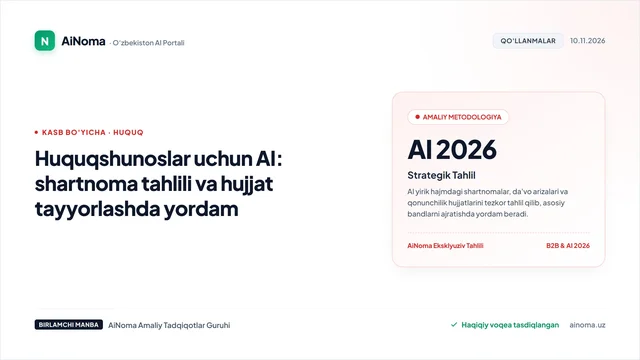
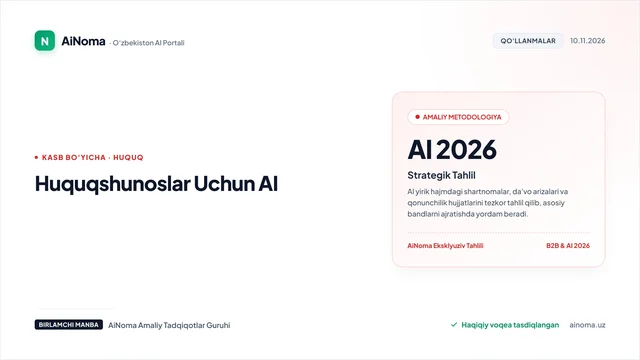
feat(prod): automated live deployment sync

Changed region(s): [[0.0312, 0.3972, 0.4375, 0.6111], [0.0625, 0.3361, 0.2188, 0.3972]]

diff --git a/articles-data.js b/articles-data.js
@@ -1,5 +1,3 @@
-// AiNoma Central Content Database
-// Generated & Synchronized automatically
 window.AINOMA_ARTICLES = {
   "dizaynerlar-uchun-ai": {
     "id": "dizaynerlar-uchun-ai",
@@ -6859,7 +6857,8 @@ window.AINOMA_ARTICLES = {
     ],
     "body": "<p><b>Qisqa javob:</b> Sun'iy intellekt xavfsizligi va yetakchi tadqiqotlar bo'yicha gigant hisoblangan Anthropic o'zining yangi flagman modellari — <b>Claude Fable 5.2</b> hamda <b>Mythos 5.2</b> tizimlarini rasman e'lon qildi. Ushbu yangi modellar OpenAI'ning GPT-6 Astra modeliga munosib javob bo'lib, korxonalarga 20 foiz arzonroq narxda yuqori mantiqiy fikrlash quvvatini taqdim etadi.</p>\n\n<h2 class=\"article-section-title\">Astra bilan kuchlar tenglashuvi</h2>\n<p>Kuz mavsumida OpenAI GPT-6 Astra modelini taqdim etgach, dasturlash va murakkab agentlik vazifalarida bozor yetakchiligini o'ziga qaratgan edi. Anthropic tomonidan taqdim etilgan Fable 5.2 va Mythos 5.2 aynan ushbu bo'shliqni to'ldiradi. Mustaqil benchmarklar ko'rsatishicha, yangi Claude modellari kod tahlili, huquqiy va ilmiy matnlarni qayta ishlash hamda ko'p bosqichli matematik xulosalashda OpenAI flagmani bilan mutlaqo teng natijalarni qayd etgan.</p>\n\n<h2 class=\"article-section-title\">20% arzon narx siyosati</h2>\n<p>Anthropic jamoasi yangi modellarni tarqatishda korporativ mijozlar uchun jozibador narx taklifini ilgari surmoqda. 1 million kirish tokeni bahosi <b>8 dollar</b>, chiqish tokeni esa <b>40 dollar</b> etib belgilandi. Bu OpenAI Astra modelining rasmiy API narxlaridan taxminan 20 foiz pastroq deganidir. Yirik korxonalar va SaaS kompaniyalar uchun bu hisoblash byudjetini yuz minglab dollarga tejash imkonini beradi.</p>\n\n<h2 class=\"article-section-title\">Nasdaq IPO arafasidagi strategik qadam</h2>\n<p>Ushbu yangilik Anthropic kompaniyasining Nasdaq birjasida kutilayotgan ommaviy birlamchi aksiyalar savdosi (IPO, ticker: <code>ANT</code>) arafasida e'lon qilindi. Kompaniyaning 1 trillion dollardan oshiq baholanishi kutilayotgan bir paytda, yangi modellar Anthropic nafaqat ilmiy xavfsizlik, balki tijoriy samaradorlik bo'yicha ham sanoat yetakchisi ekanligini isbotlamoqda.</p>",
     "contentHtml": "<p><b>Qisqa javob:</b> Sun'iy intellekt xavfsizligi va yetakchi tadqiqotlar bo'yicha gigant hisoblangan Anthropic o'zining yangi flagman modellari — <b>Claude Fable 5.2</b> hamda <b>Mythos 5.2</b> tizimlarini rasman e'lon qildi. Ushbu yangi modellar OpenAI'ning GPT-6 Astra modeliga munosib javob bo'lib, korxonalarga 20 foiz arzonroq narxda yuqori mantiqiy fikrlash quvvatini taqdim etadi.</p>\n\n<h2 class=\"article-section-title\">Astra bilan kuchlar tenglashuvi</h2>\n<p>Kuz mavsumida OpenAI GPT-6 Astra modelini taqdim etgach, dasturlash va murakkab agentlik vazifalarida bozor yetakchiligini o'ziga qaratgan edi. Anthropic tomonidan taqdim etilgan Fable 5.2 va Mythos 5.2 aynan ushbu bo'shliqni to'ldiradi. Mustaqil benchmarklar ko'rsatishicha, yangi Claude modellari kod tahlili, huquqiy va ilmiy matnlarni qayta ishlash hamda ko'p bosqichli matematik xulosalashda OpenAI flagmani bilan mutlaqo teng natijalarni qayd etgan.</p>\n\n<h2 class=\"article-section-title\">20% arzon narx siyosati</h2>\n<p>Anthropic jamoasi yangi modellarni tarqatishda korporativ mijozlar uchun jozibador narx taklifini ilgari surmoqda. 1 million kirish tokeni bahosi <b>8 dollar</b>, chiqish tokeni esa <b>40 dollar</b> etib belgilandi. Bu OpenAI Astra modelining rasmiy API narxlaridan taxminan 20 foiz pastroq deganidir. Yirik korxonalar va SaaS kompaniyalar uchun bu hisoblash byudjetini yuz minglab dollarga tejash imkonini beradi.</p>\n\n<h2 class=\"article-section-title\">Nasdaq IPO arafasidagi strategik qadam</h2>\n<p>Ushbu yangilik Anthropic kompaniyasining Nasdaq birjasida kutilayotgan ommaviy birlamchi aksiyalar savdosi (IPO, ticker: <code>ANT</code>) arafasida e'lon qilindi. Kompaniyaning 1 trillion dollardan oshiq baholanishi kutilayotgan bir paytda, yangi modellar Anthropic nafaqat ilmiy xavfsizlik, balki tijoriy samaradorlik bo'yicha ham sanoat yetakchisi ekanligini isbotlamoqda.</p>",
-    "verification_status": "VERIFIED"
+    "verification_status": "VERIFIED",
+    "banner_title": "Claude Fable 5.2 & Mythos 5.2"
   },
   "google-tpu-8tx-8i-max-chiplarini-chiqardi-2026": {
     "id": "google-tpu-8tx-8i-max-chiplarini-chiqardi-2026",
@@ -6898,7 +6897,8 @@ window.AINOMA_ARTICLES = {
     ],
     "body": "<p><b>Qisqa javob:</b> Google bulutli hisoblash va sun'iy intellekt infratuzilmasi sohasida muhim qadam tashlab, o'zining navbatdagi maxsus neyron protsessorlari — <b>TPU 8tx</b> hamda <b>TPU 8i Max</b> chiplarini namoyish etdi. Ushbu chiplar Nvidia apparaturasiga nisbatan 30 foiz arzon narxda inferens va trening imkoniyatini taqdim etadi.</p>\n\n<h2 class=\"article-section-title\">Nvidia apparat monopoliyasiga to'g'ridan-to'g'ri zarba</h2>\n<p>Bozorda Nvidia GPU chiplari (ayniqsa Blackwell va undan keyingi arxitekturalar) taqchilligi va haddan tashqari qimmatligi IT kompaniyalarini muqobil yo'llar qidirishga majbur qilmoqda. Google tomonidan taqdim etilgan TPU 8tx katta hajmdagi parametrlarga ega til modellarini o'qitish uchun, 8i Max esa past kechikish vaqti (latency) bilan keng ko'lamli so'rovlarni qayta ishlashga (inferens) ixtisoslashgan.</p>\n\n<h2 class=\"article-section-title\">Energiya tejamkorligi va optik kommutatsiya</h2>\n<p>Google yangi TPU podlarida o'zining ilg'or Optical Circuit Switching (OCS) texnologiyasini yangi bosqichga olib chiqdi. Bu chiplararo ma'lumot uzatishda elektr energiyasini 40 foizga tejash, ma'lumotlar uzatish kechikishini esa deyarli nolga tushirish imkonini beradi. Natijada yirik klasterlarda hisoblash samaradorligi 1.4 baravarga oshgan.</p>\n\n<h2 class=\"article-section-title\">Bozor yetakchilari TPU klasterlariga o'tmoqda</h2>\n<p>E'tiborli jihati, Google TPU chiplaridan faqat o'zining Gemini modellari uchun emas, balki boshqa AI gigantlari ham keng foydalanmoqda. Anthropic, Meta va Oracle korporatsiyalari yangi TPU 8tx klasterlarini buyurtma qilib bo'lgan. Wall Street tahlilchilari prognoziga ko'ra, OpenAI ham xavflarni diversifikatsiya qilish maqsadida Google TPU quvvatlaridan foydalanish bo'yicha muzokaralar olib bormoqda.</p>",
     "contentHtml": "<p><b>Qisqa javob:</b> Google bulutli hisoblash va sun'iy intellekt infratuzilmasi sohasida muhim qadam tashlab, o'zining navbatdagi maxsus neyron protsessorlari — <b>TPU 8tx</b> hamda <b>TPU 8i Max</b> chiplarini namoyish etdi. Ushbu chiplar Nvidia apparaturasiga nisbatan 30 foiz arzon narxda inferens va trening imkoniyatini taqdim etadi.</p>\n\n<h2 class=\"article-section-title\">Nvidia apparat monopoliyasiga to'g'ridan-to'g'ri zarba</h2>\n<p>Bozorda Nvidia GPU chiplari (ayniqsa Blackwell va undan keyingi arxitekturalar) taqchilligi va haddan tashqari qimmatligi IT kompaniyalarini muqobil yo'llar qidirishga majbur qilmoqda. Google tomonidan taqdim etilgan TPU 8tx katta hajmdagi parametrlarga ega til modellarini o'qitish uchun, 8i Max esa past kechikish vaqti (latency) bilan keng ko'lamli so'rovlarni qayta ishlashga (inferens) ixtisoslashgan.</p>\n\n<h2 class=\"article-section-title\">Energiya tejamkorligi va optik kommutatsiya</h2>\n<p>Google yangi TPU podlarida o'zining ilg'or Optical Circuit Switching (OCS) texnologiyasini yangi bosqichga olib chiqdi. Bu chiplararo ma'lumot uzatishda elektr energiyasini 40 foizga tejash, ma'lumotlar uzatish kechikishini esa deyarli nolga tushirish imkonini beradi. Natijada yirik klasterlarda hisoblash samaradorligi 1.4 baravarga oshgan.</p>\n\n<h2 class=\"article-section-title\">Bozor yetakchilari TPU klasterlariga o'tmoqda</h2>\n<p>E'tiborli jihati, Google TPU chiplaridan faqat o'zining Gemini modellari uchun emas, balki boshqa AI gigantlari ham keng foydalanmoqda. Anthropic, Meta va Oracle korporatsiyalari yangi TPU 8tx klasterlarini buyurtma qilib bo'lgan. Wall Street tahlilchilari prognoziga ko'ra, OpenAI ham xavflarni diversifikatsiya qilish maqsadida Google TPU quvvatlaridan foydalanish bo'yicha muzokaralar olib bormoqda.</p>",
-    "verification_status": "VERIFIED"
+    "verification_status": "VERIFIED",
+    "banner_title": "Google TPU 8tx & 8i Max"
   },
   "huquqshunoslar-uchun-ai": {
     "id": "huquqshunoslar-uchun-ai",
@@ -6937,7 +6937,8 @@ window.AINOMA_ARTICLES = {
     ],
     "body": "<p><b>Qisqa javob:</b> Sun'iy intellekt katta hajmdagi hujjatlarni tezda ko'rib chiqish, asosiy bandlarni ajratib olish va birinchi qoralamalarni tayyorlashda vaqtni sezilarli tejaydi — ammo yakuniy huquqiy xulosa va mas'uliyat har doim inson yuristning o'zida qoladi.</p>\n\n<h2 class=\"article-section-title\">Qayerda eng ko'p yordam beradi?</h2>\n<p><b>1. Uzun hujjatlarni tezda ko'rib chiqish.</b> Ko'p sahifali shartnoma yoki qonun hujjatini AI tizimiga berib, asosiy bandlar, muddatlar, jarimalar va majburiyatlarni qisqa tahliliy ro'yxat shaklida olishingiz mumkin.</p>\n<p><b>2. Birinchi qoralama tayyorlash.</b> Standart xat, e'tiroznomalar, da'vo arizalari yoki oddiy shartnoma shablonining boshlang'ich qoralamasini bir necha daqiqada tayyorlash — keyin uni o'zingiz to'liq tahrirlash imkoniyati taqdim etiladi.</p>\n<p><b>3. Til va uslubni yaxshilash.</b> Yuridik hujjatni aniqroq, tushunarliroq tilda qayta bayon qilish (ayniqsa mijozga yuboriladigan tushuntirish xatlari uchun juda qulay).</p>\n<p><b>4. Solishtirish (Redline tahlil).</b> Ikki shartnoma variantini (masalan, eski va yangi tahrir) solishtirib, yashirin o'zgarishlar va asosiy farqlarni bir zumda topish.</p>\n\n<h2 class=\"article-section-title\">Qayerda AI'ga ishonib bo'lmaydi?</h2>\n<p>⚠ <b>Gallyutsinatsiyalar va qonun normalari:</b> AI amaldagi qonunchilikni har doim to'liq va aniq bilmasligi mumkin — ayniqsa O'zbekiston Respublikasi qonunchiligidagi so'nggi tahrirlar bo'yicha. AI ba'zan ishonchli ohangda, ammo aslida mavjud bo'lmagan qonun moddalari yoki sud pretsedentlarini to'qib chiqarishi (hallucination) mumkin. Har qanday huquqiy havola yoki modda raqamini <code>Lex.uz</code> kabi rasmiy davlat bazalarida tekshirish shart.</p>\n\n<p>🔒 <b>Mijoz sirlari va konfidentsiallik:</b> Mijozlarning tijorat sirlari, shartnoma summalari va shaxsiy ma'lumotlarini ochiq umumiy AI platformalariga kiritish taqiqlanadi. Agar enterprise darajasidagi xavfsiz klaster bo'lmasa, maxfiy ma'lumotlar ochiqlanishi xavfi mavjud.</p>\n\n<h2 class=\"article-section-title\">Oltin qoida: Junior yordamchi tamoyili</h2>\n<p>Sun'iy intellektdan malakali yordamchi sifatida foydalaning: u sizga qoralama va tahlil tezligini beradi, biroq hujjatga qo'yiladigan har bir imzo va professional xulosa — sizning shaxsiy mas'uliyatingizdir.</p>",
     "contentHtml": "<p><b>Qisqa javob:</b> Sun'iy intellekt katta hajmdagi hujjatlarni tezda ko'rib chiqish, asosiy bandlarni ajratib olish va birinchi qoralamalarni tayyorlashda vaqtni sezilarli tejaydi — ammo yakuniy huquqiy xulosa va mas'uliyat har doim inson yuristning o'zida qoladi.</p>\n\n<h2 class=\"article-section-title\">Qayerda eng ko'p yordam beradi?</h2>\n<p><b>1. Uzun hujjatlarni tezda ko'rib chiqish.</b> Ko'p sahifali shartnoma yoki qonun hujjatini AI tizimiga berib, asosiy bandlar, muddatlar, jarimalar va majburiyatlarni qisqa tahliliy ro'yxat shaklida olishingiz mumkin.</p>\n<p><b>2. Birinchi qoralama tayyorlash.</b> Standart xat, e'tiroznomalar, da'vo arizalari yoki oddiy shartnoma shablonining boshlang'ich qoralamasini bir necha daqiqada tayyorlash — keyin uni o'zingiz to'liq tahrirlash imkoniyati taqdim etiladi.</p>\n<p><b>3. Til va uslubni yaxshilash.</b> Yuridik hujjatni aniqroq, tushunarliroq tilda qayta bayon qilish (ayniqsa mijozga yuboriladigan tushuntirish xatlari uchun juda qulay).</p>\n<p><b>4. Solishtirish (Redline tahlil).</b> Ikki shartnoma variantini (masalan, eski va yangi tahrir) solishtirib, yashirin o'zgarishlar va asosiy farqlarni bir zumda topish.</p>\n\n<h2 class=\"article-section-title\">Qayerda AI'ga ishonib bo'lmaydi?</h2>\n<p>⚠ <b>Gallyutsinatsiyalar va qonun normalari:</b> AI amaldagi qonunchilikni har doim to'liq va aniq bilmasligi mumkin — ayniqsa O'zbekiston Respublikasi qonunchiligidagi so'nggi tahrirlar bo'yicha. AI ba'zan ishonchli ohangda, ammo aslida mavjud bo'lmagan qonun moddalari yoki sud pretsedentlarini to'qib chiqarishi (hallucination) mumkin. Har qanday huquqiy havola yoki modda raqamini <code>Lex.uz</code> kabi rasmiy davlat bazalarida tekshirish shart.</p>\n\n<p>🔒 <b>Mijoz sirlari va konfidentsiallik:</b> Mijozlarning tijorat sirlari, shartnoma summalari va shaxsiy ma'lumotlarini ochiq umumiy AI platformalariga kiritish taqiqlanadi. Agar enterprise darajasidagi xavfsiz klaster bo'lmasa, maxfiy ma'lumotlar ochiqlanishi xavfi mavjud.</p>\n\n<h2 class=\"article-section-title\">Oltin qoida: Junior yordamchi tamoyili</h2>\n<p>Sun'iy intellektdan malakali yordamchi sifatida foydalaning: u sizga qoralama va tahlil tezligini beradi, biroq hujjatga qo'yiladigan har bir imzo va professional xulosa — sizning shaxsiy mas'uliyatingizdir.</p>",
-    "verification_status": "VERIFIED"
+    "verification_status": "VERIFIED",
+    "banner_title": "Huquqshunoslar Uchun AI"
   },
   "openai-businesses-in-chatgpt-business-hub-2026": {
     "id": "openai-businesses-in-chatgpt-business-hub-2026",
@@ -6976,7 +6977,8 @@ window.AINOMA_ARTICLES = {
     ],
     "body": "<p><b>Qisqa javob:</b> OpenAI sun'iy intellekt orqali qidiruv va muloqot bozoridan so'ng endi global elektron tijorat markaziga aylanmoqda. Yangi taqdim etilgan <b>«Businesses in ChatGPT»</b> dasturi orqali kompaniyalar ChatGPT interfeysi ichida rasmiy tasdiqlangan biznes profilini ochish, mahsulotlar katalogini ulash va avtonom savdo agentlarini ishga tushirish imkoniyatiga ega bo'ldi.</p>\n\n<h2 class=\"article-section-title\">800 million auditoriya uchun to'g'ridan-to'g'ri vitrina</h2>\n<p>ChatGPT'ning haftalik faol foydalanuvchilari soni 800 milliondan oshgan bir paytda, foydalanuvchilar har kuni millionlab xarid bo'yicha tavsiyalar, mahsulot taqqoslashlari va xizmat qidiruvlarini amalga oshirmoqda. OpenAI yangi funksiya orqali an'anaviy veb-saytga o'tish zaruriyatini yo'qotib, barcha xarid jarayonini bevosita chat oqimida yakunlash muhitini shakllantirdi.</p>\n\n<h2 class=\"article-section-title\">Xususiy brend agenti va katalog integratsiyasi</h2>\n<p>Bizneslar endi o'z ERP, CRM va ombor tizimlarini ChatGPT bilan xavfsiz API protokollari orqali bog'lashi mumkin. Kompaniyaning maxsus sun'iy intellekt agenti quyidagi vazifalarni avtomatlashtiradi:</p>\n<ul>\n  <li>Mijozning o'lchami, didi va byudjetiga mos tovarlarni real vaqt rejimida tavsiya qilish;</li>\n  <li>Ombordagi qoldiqlarni tekshirish va yetkazib berish muddatlarini hisoblash;</li>\n  <li>To'lovni muloqot oynasining o'zida xavfsiz qabul qilish va chek taqdim etish.</li>\n</ul>\n\n<h2 class=\"article-section-title\">Google qidiruvi va an'anaviy e-commerce uchun chaqiruv</h2>\n<p>Ushbu yangilik an'anaviy qidiruv tizimlari (Google Search reklamalari) hamda Amazon, Shopify kabi onlayn platformalar uchun jiddiy raqobat muhitini paydo qilmoqda. Kompaniyalar endi mijozni qidiruv natijalaridan o'z saytiga jalb qilish o'rniga, uning muloqot qilayotgan joyida — sun'iy intellekt agenti orqali to'g'ridan-to'g'ri savdoni yo'lga qo'ymoqda.</p>",
     "contentHtml": "<p><b>Qisqa javob:</b> OpenAI sun'iy intellekt orqali qidiruv va muloqot bozoridan so'ng endi global elektron tijorat markaziga aylanmoqda. Yangi taqdim etilgan <b>«Businesses in ChatGPT»</b> dasturi orqali kompaniyalar ChatGPT interfeysi ichida rasmiy tasdiqlangan biznes profilini ochish, mahsulotlar katalogini ulash va avtonom savdo agentlarini ishga tushirish imkoniyatiga ega bo'ldi.</p>\n\n<h2 class=\"article-section-title\">800 million auditoriya uchun to'g'ridan-to'g'ri vitrina</h2>\n<p>ChatGPT'ning haftalik faol foydalanuvchilari soni 800 milliondan oshgan bir paytda, foydalanuvchilar har kuni millionlab xarid bo'yicha tavsiyalar, mahsulot taqqoslashlari va xizmat qidiruvlarini amalga oshirmoqda. OpenAI yangi funksiya orqali an'anaviy veb-saytga o'tish zaruriyatini yo'qotib, barcha xarid jarayonini bevosita chat oqimida yakunlash muhitini shakllantirdi.</p>\n\n<h2 class=\"article-section-title\">Xususiy brend agenti va katalog integratsiyasi</h2>\n<p>Bizneslar endi o'z ERP, CRM va ombor tizimlarini ChatGPT bilan xavfsiz API protokollari orqali bog'lashi mumkin. Kompaniyaning maxsus sun'iy intellekt agenti quyidagi vazifalarni avtomatlashtiradi:</p>\n<ul>\n  <li>Mijozning o'lchami, didi va byudjetiga mos tovarlarni real vaqt rejimida tavsiya qilish;</li>\n  <li>Ombordagi qoldiqlarni tekshirish va yetkazib berish muddatlarini hisoblash;</li>\n  <li>To'lovni muloqot oynasining o'zida xavfsiz qabul qilish va chek taqdim etish.</li>\n</ul>\n\n<h2 class=\"article-section-title\">Google qidiruvi va an'anaviy e-commerce uchun chaqiruv</h2>\n<p>Ushbu yangilik an'anaviy qidiruv tizimlari (Google Search reklamalari) hamda Amazon, Shopify kabi onlayn platformalar uchun jiddiy raqobat muhitini paydo qilmoqda. Kompaniyalar endi mijozni qidiruv natijalaridan o'z saytiga jalb qilish o'rniga, uning muloqot qilayotgan joyida — sun'iy intellekt agenti orqali to'g'ridan-to'g'ri savdoni yo'lga qo'ymoqda.</p>",
-    "verification_status": "VERIFIED"
+    "verification_status": "VERIFIED",
+    "banner_title": "Businesses in ChatGPT"
   },
   "anthropic-claude-sheets-whiteboards-ofis-dasturlari-2026": {
     "id": "anthropic-claude-sheets-whiteboards-ofis-dasturlari-2026",
@@ -7015,7 +7017,8 @@ window.AINOMA_ARTICLES = {
     ],
     "body": "<p><b>Qisqa javob:</b> Anthropic kompaniyasi generativ sun'iy intellekt modellarini amaliy ish oqimlariga chuqur integratsiya qilish strategiyasining yangi bosqichini boshladi. Taqdim etilgan <b>Claude Sheets</b> va <b>Claude Whiteboards</b> bevosita Google Workspace hamda Microsoft 365 ekotizimlarining eng ommabop vositalari bilan raqobatga kirishmoqda.</p>\n\n<h2 class=\"article-section-title\">Claude Sheets: Faol ma'lumotlar bilan hisob-kitob</h2>\n<p>An'anaviy elektron jadvallarda foydalanuvchilar murakkab formulalar (VLOOKUP, INDEX MATCH) yozishi yoki skriptlar tuzishi talab etiladi. Claude Sheets esa har bir katakchani sun'iy intellekt qobiliyati bilan jihozlaydi. Foydalanuvchi oddiy so'zlar bilan moliyaviy hisobotni tahlil qilish, daromadlar kaskadini hisoblash yoki bozor ko'rsatkichlarini taqqoslashni buyurishi mumkin — tizim formulalarni avtomatik qo'llab, to'liq diagrammalarni shakllantiradi.</p>\n\n<h2 class=\"article-section-title\">Claude Whiteboards: Murakkab tizimlarni vizual tushunish</h2>\n<p>Dasturiy arxitektura, biznes jarayonlar va mahsulot rejalari bilan ishlovchi jamoalar uchun Whiteboards interaktiv maydon taqdim etadi. Matnli talablar yoki mijoz bilan suhbat stenogrammasi Claude Whiteboards'ga yuklanganda, tizim bir zumda blok-sxemalar, foydalanuvchi yo'llari (user journeys) va tizimli modullarni vizual doskada tartiblab beradi.</p>\n\n<h2 class=\"article-section-title\">Korporativ bozor uchun yangi standart</h2>\n<p>Mazkur qadam Anthropic kompaniyasining dasturchilar va tadqiqotchilar doirasidan chiqib, millionlab ofis xodimlari va tahlilchilarning kundalik asosiy ish maydoniga aylanish maqsadini ko'rsatadi. Korxona xavfsizligi va maxfiylik standartlari to'liq saqlangan holda jamoaviy hamkorlik funksiyalari taqdim etilmoqda.</p>",
     "contentHtml": "<p><b>Qisqa javob:</b> Anthropic kompaniyasi generativ sun'iy intellekt modellarini amaliy ish oqimlariga chuqur integratsiya qilish strategiyasining yangi bosqichini boshladi. Taqdim etilgan <b>Claude Sheets</b> va <b>Claude Whiteboards</b> bevosita Google Workspace hamda Microsoft 365 ekotizimlarining eng ommabop vositalari bilan raqobatga kirishmoqda.</p>\n\n<h2 class=\"article-section-title\">Claude Sheets: Faol ma'lumotlar bilan hisob-kitob</h2>\n<p>An'anaviy elektron jadvallarda foydalanuvchilar murakkab formulalar (VLOOKUP, INDEX MATCH) yozishi yoki skriptlar tuzishi talab etiladi. Claude Sheets esa har bir katakchani sun'iy intellekt qobiliyati bilan jihozlaydi. Foydalanuvchi oddiy so'zlar bilan moliyaviy hisobotni tahlil qilish, daromadlar kaskadini hisoblash yoki bozor ko'rsatkichlarini taqqoslashni buyurishi mumkin — tizim formulalarni avtomatik qo'llab, to'liq diagrammalarni shakllantiradi.</p>\n\n<h2 class=\"article-section-title\">Claude Whiteboards: Murakkab tizimlarni vizual tushunish</h2>\n<p>Dasturiy arxitektura, biznes jarayonlar va mahsulot rejalari bilan ishlovchi jamoalar uchun Whiteboards interaktiv maydon taqdim etadi. Matnli talablar yoki mijoz bilan suhbat stenogrammasi Claude Whiteboards'ga yuklanganda, tizim bir zumda blok-sxemalar, foydalanuvchi yo'llari (user journeys) va tizimli modullarni vizual doskada tartiblab beradi.</p>\n\n<h2 class=\"article-section-title\">Korporativ bozor uchun yangi standart</h2>\n<p>Mazkur qadam Anthropic kompaniyasining dasturchilar va tadqiqotchilar doirasidan chiqib, millionlab ofis xodimlari va tahlilchilarning kundalik asosiy ish maydoniga aylanish maqsadini ko'rsatadi. Korxona xavfsizligi va maxfiylik standartlari to'liq saqlangan holda jamoaviy hamkorlik funksiyalari taqdim etilmoqda.</p>",
-    "verification_status": "VERIFIED"
+    "verification_status": "VERIFIED",
+    "banner_title": "Claude Sheets & Whiteboards"
   },
   "claude-va-google-ai-studio-bilan-video-qurish-qollanma": {
     "id": "claude-va-google-ai-studio-bilan-video-qurish-qollanma",
@@ -7054,6 +7057,7 @@ window.AINOMA_ARTICLES = {
     ],
     "body": "<p><b>Qisqa javob:</b> Ko'pchilik foydalanuvchilar sun'iy intellektda video ishlab chiqarishda bir xil xatoga yo'l qo'yadi: bitta umumiy prompt yozib, video generatoridan mo'jiza kutadi. Professional natijaga erishish uchun esa ikki bosqichli tizimli arxitektura zarur: <b>Claude</b> — mantiqiy ssenariy, kadrlar vaqti va rejissyorlik rejasi uchun javob beradi; <b>Google AI Studio (Gemini)</b> esa multimodal tahlil, vizual izchillik va Google Veo modeliga kiritiladigan optik ko'rsatkichlarni boshqaradi.</p>\n\n<h2 class=\"article-section-title\">1-bosqich: Claude bilan rejissyorlik rejasi va promptlar arxitekturasi</h2>\n<p>Rolik qurishni boshlashdan oldin Claude'ga aniq kontekst bering. Sun'iy intellekt video generatorlari (Google Veo, Runway, Kling, Sora) uchun har bir kadr alohida va batafsil yozilishi shart. Claude'ga quyidagi tizimli promptni yuboring:</p>\n\n<pre class=\"article-code-block\"><code>Siz xalqaro darajadagi kino rejissyori va video direktorsiz.\nMavzu: [Mavzuni yozing, masalan: Toshkentdagi yangi IT-park faoliyati]\nFormat: 30 soniyalik vertikal rolik (9:16)\nAuditoriya: Yosh mutaxassislar va xorijiy investorlar\n\nMenga 5 ta ketma-ket kadr (Shot-by-Shot) uchun quyidagi jadvalni taqdim eting:\n1. Kadr raqami va vaqti (masalan, Shot 1: 00:00 - 00:04);\n2. Vizual tavsif (qahramon harakati, muhit);\n3. Kamera optikasi va harakati (masalan: 35mm lens, dolly-in, shallow depth of field);\n4. Rang va yorug'lik harorati (masalan: cinematic golden hour, volumetric haze);\n5. AI Video generatori (Google Veo / Kling) uchun sof ingliz tilidagi yakuniy prompt.</code></pre>\n\n<p>Natijada Claude sizga tasodifiy gaplar emas, balki montajchining ishchi rejasiga o'xshash professional arxitekturani ishlab beradi.</p>\n\n<h2 class=\"article-section-title\">2-bosqich: Google AI Studio'da multimodal tahlil va izchillik nazorati</h2>\n<p>Kadrlar bo'yicha promptlar tayyor bo'lgach, ikkinchi muhim qadam — Google AI Studio (aistudio.google.com) platformasiga o'tishdir. Google AI Studio quyidagi vazifalarda tengsiz imkoniyat taqdim etadi:</p>\n<ul>\n  <li><b>Qahramon va rang izchilligi (Visual Consistency):</b> Agar sizda bosh qahramonning surati yoki brend ranglar palitrasi bo'lsa, uni Google AI Studio'ga yuklang va Gemini 2.0 Flash / Pro modeliga tahlil qildiring: <i>«Ushbu personaj kiyimi, yuz tuzilishi va atrof-muhit ranglarini keyingi barcha video promptlarida o'zgarmas saqlash uchun qaysi asosiy deskriptorlarni kiritish lozim?»</i></li>\n  <li><b>Video kadrlarni tekshirish:</b> Generatsiya qilingan dastlabki 3-5 soniyalik sinov parchalarini Google AI Studio'ga yuklab, harakat ritmi, kadrlar chalkashligi va fizik buzilishlarni aniqlashingiz mumkin.</li>\n</ul>\n\n<h2 class=\"article-section-title\">3-bosqich: Kadrlar bo'yicha generatsiya va Veo prompt qoidalari</h2>\n<p>Google Veo yoki yetakchi video generatorlariga prompt berishda quyidagi 4 elementli oltin qoidaga rioya qiling:</p>\n<ol>\n  <li><b>Subyekt va asosiy harakat:</b> Kadr markazida kim yoki nima bor va u aniq nima qilyapti (masalan, <i>«A software engineer walking through a futuristic glass-walled office»</i>);</li>\n  <li><b>Kamera va kompozitsiya:</b> Kamera qayerda va qanday harakatlanadi (masalan, <i>«Low-angle slow tracking shot, 50mm anamorphic lens, subtle motion blur»</i>);</li>\n  <li><b>Yorug'lik va atmosfera:</b> Ranglar va nur yo'nalishi (masalan, <i>«Soft morning cinematic sunlight streaming through floor-to-ceiling windows, dust motes floating»</i>);</li>\n  <li><b>Texnik sifat parametrlari:</b> <i>«Photorealistic, 8k resolution, cinematic color grading, hyper-detailed textures, 24fps»</i>.</li>\n</ol>\n\n<h2 class=\"article-section-title\">4-bosqich: Montaj, ovoz va subtitrlarni birlashtirish</h2>\n<p>Barcha 5 ta kadr tayyor bo'lgach, ularni CapCut, Premiere Pro yoki DaVinci Resolve dasturiga joylang:</p>\n<ul>\n  <li><b>Kadrlar o'tishi:</b> Har bir kadr davomiyligini ssenariydagi vaqt bilan moslang. AI videolarda eng yaxshi o'tish — bu oddiy kesish (hard cut) yoki sekin xiralashish (cross dissolve). Ortiqcha murakkab 3D o'tishlardan saqlaning;</li>\n  <li><b>Ovozlashtirish:</b> Claude orqali ssenariy diktor matnini (voiceover) ElevenLabs kabi neyron ovoz platformasida o'zbek yoki ingliz tilida professional yozib oling;</li>\n  <li><b>Dinamik subtitrlar:</b> Mobil auditoriya uchun subtitrlar judayam muhim. Kadr markazini to'smaydigan, qisqa va qulay shriftlardan foydalaning.</li>\n</ul>\n\n<h2 class=\"article-section-title\">Xulosa: Tizimli yondashuv — kafolatlangan sifat</h2>\n<p>Professional darajadagi video tayyorlashda sun'iy intellekt sehrli tugma emas, balki puxta boshqariladigan ijodiy guruhdir. Claude — ssenariy muallifi va bosh rejissyor vazifasini bajarsa, Google AI Studio — texnik tahlilchi va sifat nazoratchisi vazifasini o'taydi. Ushbu tizimli zanjir orqali siz minimal vaqt sarflab, yuqori sifatli vizual loyihalarni muvaffaqiyatli qurishingiz mumkin.</p>",
     "contentHtml": "<p><b>Qisqa javob:</b> Ko'pchilik foydalanuvchilar sun'iy intellektda video ishlab chiqarishda bir xil xatoga yo'l qo'yadi: bitta umumiy prompt yozib, video generatoridan mo'jiza kutadi. Professional natijaga erishish uchun esa ikki bosqichli tizimli arxitektura zarur: <b>Claude</b> — mantiqiy ssenariy, kadrlar vaqti va rejissyorlik rejasi uchun javob beradi; <b>Google AI Studio (Gemini)</b> esa multimodal tahlil, vizual izchillik va Google Veo modeliga kiritiladigan optik ko'rsatkichlarni boshqaradi.</p>\n\n<h2 class=\"article-section-title\">1-bosqich: Claude bilan rejissyorlik rejasi va promptlar arxitekturasi</h2>\n<p>Rolik qurishni boshlashdan oldin Claude'ga aniq kontekst bering. Sun'iy intellekt video generatorlari (Google Veo, Runway, Kling, Sora) uchun har bir kadr alohida va batafsil yozilishi shart. Claude'ga quyidagi tizimli promptni yuboring:</p>\n\n<pre class=\"article-code-block\"><code>Siz xalqaro darajadagi kino rejissyori va video direktorsiz.\nMavzu: [Mavzuni yozing, masalan: Toshkentdagi yangi IT-park faoliyati]\nFormat: 30 soniyalik vertikal rolik (9:16)\nAuditoriya: Yosh mutaxassislar va xorijiy investorlar\n\nMenga 5 ta ketma-ket kadr (Shot-by-Shot) uchun quyidagi jadvalni taqdim eting:\n1. Kadr raqami va vaqti (masalan, Shot 1: 00:00 - 00:04);\n2. Vizual tavsif (qahramon harakati, muhit);\n3. Kamera optikasi va harakati (masalan: 35mm lens, dolly-in, shallow depth of field);\n4. Rang va yorug'lik harorati (masalan: cinematic golden hour, volumetric haze);\n5. AI Video generatori (Google Veo / Kling) uchun sof ingliz tilidagi yakuniy prompt.</code></pre>\n\n<p>Natijada Claude sizga tasodifiy gaplar emas, balki montajchining ishchi rejasiga o'xshash professional arxitekturani ishlab beradi.</p>\n\n<h2 class=\"article-section-title\">2-bosqich: Google AI Studio'da multimodal tahlil va izchillik nazorati</h2>\n<p>Kadrlar bo'yicha promptlar tayyor bo'lgach, ikkinchi muhim qadam — Google AI Studio (aistudio.google.com) platformasiga o'tishdir. Google AI Studio quyidagi vazifalarda tengsiz imkoniyat taqdim etadi:</p>\n<ul>\n  <li><b>Qahramon va rang izchilligi (Visual Consistency):</b> Agar sizda bosh qahramonning surati yoki brend ranglar palitrasi bo'lsa, uni Google AI Studio'ga yuklang va Gemini 2.0 Flash / Pro modeliga tahlil qildiring: <i>«Ushbu personaj kiyimi, yuz tuzilishi va atrof-muhit ranglarini keyingi barcha video promptlarida o'zgarmas saqlash uchun qaysi asosiy deskriptorlarni kiritish lozim?»</i></li>\n  <li><b>Video kadrlarni tekshirish:</b> Generatsiya qilingan dastlabki 3-5 soniyalik sinov parchalarini Google AI Studio'ga yuklab, harakat ritmi, kadrlar chalkashligi va fizik buzilishlarni aniqlashingiz mumkin.</li>\n</ul>\n\n<h2 class=\"article-section-title\">3-bosqich: Kadrlar bo'yicha generatsiya va Veo prompt qoidalari</h2>\n<p>Google Veo yoki yetakchi video generatorlariga prompt berishda quyidagi 4 elementli oltin qoidaga rioya qiling:</p>\n<ol>\n  <li><b>Subyekt va asosiy harakat:</b> Kadr markazida kim yoki nima bor va u aniq nima qilyapti (masalan, <i>«A software engineer walking through a futuristic glass-walled office»</i>);</li>\n  <li><b>Kamera va kompozitsiya:</b> Kamera qayerda va qanday harakatlanadi (masalan, <i>«Low-angle slow tracking shot, 50mm anamorphic lens, subtle motion blur»</i>);</li>\n  <li><b>Yorug'lik va atmosfera:</b> Ranglar va nur yo'nalishi (masalan, <i>«Soft morning cinematic sunlight streaming through floor-to-ceiling windows, dust motes floating»</i>);</li>\n  <li><b>Texnik sifat parametrlari:</b> <i>«Photorealistic, 8k resolution, cinematic color grading, hyper-detailed textures, 24fps»</i>.</li>\n</ol>\n\n<h2 class=\"article-section-title\">4-bosqich: Montaj, ovoz va subtitrlarni birlashtirish</h2>\n<p>Barcha 5 ta kadr tayyor bo'lgach, ularni CapCut, Premiere Pro yoki DaVinci Resolve dasturiga joylang:</p>\n<ul>\n  <li><b>Kadrlar o'tishi:</b> Har bir kadr davomiyligini ssenariydagi vaqt bilan moslang. AI videolarda eng yaxshi o'tish — bu oddiy kesish (hard cut) yoki sekin xiralashish (cross dissolve). Ortiqcha murakkab 3D o'tishlardan saqlaning;</li>\n  <li><b>Ovozlashtirish:</b> Claude orqali ssenariy diktor matnini (voiceover) ElevenLabs kabi neyron ovoz platformasida o'zbek yoki ingliz tilida professional yozib oling;</li>\n  <li><b>Dinamik subtitrlar:</b> Mobil auditoriya uchun subtitrlar judayam muhim. Kadr markazini to'smaydigan, qisqa va qulay shriftlardan foydalaning.</li>\n</ul>\n\n<h2 class=\"article-section-title\">Xulosa: Tizimli yondashuv — kafolatlangan sifat</h2>\n<p>Professional darajadagi video tayyorlashda sun'iy intellekt sehrli tugma emas, balki puxta boshqariladigan ijodiy guruhdir. Claude — ssenariy muallifi va bosh rejissyor vazifasini bajarsa, Google AI Studio — texnik tahlilchi va sifat nazoratchisi vazifasini o'taydi. Ushbu tizimli zanjir orqali siz minimal vaqt sarflab, yuqori sifatli vizual loyihalarni muvaffaqiyatli qurishingiz mumkin.</p>",
-    "verification_status": "VERIFIED"
+    "verification_status": "VERIFIED",
+    "banner_title": "Multimodal Video Directing"
   }
 };

diff --git a/index.html b/index.html
@@ -7,7 +7,7 @@
   <meta name="keywords" content="sun'iy intellekt, suniy intellekt yangiliklari, ai vositalari, sun'iy intellekt dasturlari, chatgpt o'zbek tilida, ai qo'llanmalar, promptlar, ainoma">
   <title>AiNoma — O‘zbekistonda Sun’iy Intellekt (AI) Portali: Yangiliklar, Vositalar va Qo‘llanmalar</title>
   <meta name="google-site-verification" content="google88009caf699e3b68">
-  <link rel="stylesheet" href="style.css?v=1794398883">
+  <link rel="stylesheet" href="style.css?v=1794411774">
   <link rel="canonical" href="https://ainoma.uz/">
   <meta property="og:type" content="website">
   <meta property="og:site_name" content="AiNoma">
@@ -136,7 +136,7 @@
       </a>
     </div>
 
-                                                                                                                                                                                                                                                                                                                                                                                                                                                                                                                                                    <!-- Latest News Split Section (Kun.uz Style) -->
+                                                                                                                                                                                                                                                                                                                                                                                                                                                                                                                                                        <!-- Latest News Split Section (Kun.uz Style) -->
     <section class="news-main-section">
       <div class="news-split-layout">
         <div class="news-primary-col">
@@ -496,6 +496,6 @@
     </button>
   </nav>
 
-  <script src="app.js?v=1794398883"></script>
+  <script src="app.js?v=1794411774"></script>
 </body>
 </html>

diff --git a/vositalar.html b/vositalar.html
@@ -7,7 +7,7 @@
 <meta name="description" content="2026-yilning eng yaxshi sun’iy intellekt (AI) dasturlari va vositalari katalogi. Rasm chizish, video montaj, matn yozish va biznes uchun tasdiqlangan bepul va pullik AI servislar.">
   <meta name="keywords" content="sun'iy intellekt dasturlari, suniy intellekt, eng yaxshi ai vositalari, bepul ai dasturlar, ai rasm chizish, ai prezentatsiya, chatgpt, midjourney, deepseek, claude, ainoma">
 <title>Eng Yaxshi Sun’iy Intellekt Dasturlari (2026): Bepul va Amaliy AI Vositalar Katalogi — AiNoma</title>
-<link href="style.css?v=1794398883" rel="stylesheet"/>
+<link href="style.css?v=1794411774" rel="stylesheet"/>
 <link href="https://ainoma.uz/vositalar.html" rel="canonical"/>
 <meta content="website" property="og:type"/>
 <meta content="AiNoma" property="og:site_name"/>
@@ -711,7 +711,7 @@
   </div>
 </div>
 
-<script src="app.js?v=1794398883"></script>
+<script src="app.js?v=1794411774"></script>
 <script>
   // Tool Submission Modal Handler
   const submitModal = document.getElementById("submitToolModal");

diff --git a/ai-prezentatsiya.html b/ai-prezentatsiya.html
@@ -6,7 +6,7 @@
   <meta name="description" content="Taqdimot va slaydlar tayyorlaydigan eng kuchli sun’iy intellekt vositalari: Gamma AI, Beautiful.ai va Canva Magic. 5 daqiqada professional slayd tuzish, taqqoslash va amaliy qo‘llanma.">
   <meta name="keywords" content="prezentatsiya tayyorlaydigan ai, slayd qiladigan ai, slayd sun'iy intellekt, gamma ai uzbekcha, beautiful ai, taqdimot tayyorlash ai, gamma app">
   <title>Prezentatsiya Tayyorlaydigan AI: Eng Yaxshi Slayd Dasturlari (2026) | AiNoma</title>
-  <link rel="stylesheet" href="style.css?v=1794398883">
+  <link rel="stylesheet" href="style.css?v=1794411774">
   <link rel="canonical" href="https://ainoma.uz/ai-prezentatsiya.html">
   <meta property="og:type" content="article">
   <meta property="og:site_name" content="AiNoma">
@@ -345,6 +345,6 @@ Ranglar gammasi: Zumrad yashil va qora fon, professional va zamonaviy uslub.</pr
     </div>
   </footer>
 
-  <script src="app.js?v=1794398883"></script>
+  <script src="app.js?v=1794411774"></script>
 </body>
 </html>

diff --git a/style.css b/style.css
@@ -32,7 +32,7 @@
 
 * { box-sizing: border-box; }
 html, body {
-  overflow-x: hidden;
+  overflow-x: clip;
   max-width: 100%;
 }
 html { scroll-behavior: smooth; }
@@ -947,13 +947,25 @@ footer {
   font-weight: 700;
 }
 .article-hero {
-  width: min(1100px, calc(100% - 40px));
-  height: 480px;
+  width: min(980px, calc(100% - 40px));
+  max-width: 980px;
+  height: auto;
+  aspect-ratio: 16 / 9;
+  max-height: 520px;
   margin: 0 auto 36px;
-  border-radius: 12px;
+  border-radius: 14px;
   overflow: hidden;
+  box-shadow: 0 12px 36px -8px rgba(15, 23, 42, 0.12);
+  border: 1px solid #e2e8f0;
+  background: var(--surface);
 }
-.article-hero img { width: 100%; height: 100%; object-fit: cover; }
+.article-hero img {
+  width: 100%;
+  height: 100%;
+  object-fit: contain;
+  background: #f8fafc;
+  display: block;
+}
 .article-body { font-size: 17px; line-height: 1.8; }
 .article-body h2 { font: 800 28px "Space Grotesk", sans-serif; margin-top: 36px; margin-bottom: 14px; }
 .article-body p { margin: 0 0 20px; }

diff --git a/chatgpt-uzbekiston.html b/chatgpt-uzbekiston.html
@@ -6,7 +6,7 @@
   <meta name="description" content="ChatGPT nima va O‘zbekistonda undan qanday to‘g‘ri foydalanish kerak? VPN'siz kirish, ro‘yxatdan o‘tish, bepul ishlatish va ishga tayyor o‘zbekcha master promptlar to‘plami.">
   <meta name="keywords" content="chatgpt o'zbek tilida, chatgpt uzbekcha, chatgpt nima, chatgpt dan foydalanish, chatgpt royxatdan otish, chatgpt bepul, chatgpt promptlar, ainoma">
   <title>ChatGPT O‘zbek Tilida (2026): Ro‘yxatdan O‘tish, Bepul Foydalanish va Tayyor Promptlar — AiNoma</title>
-  <link rel="stylesheet" href="style.css?v=1794398883">
+  <link rel="stylesheet" href="style.css?v=1794411774">
   <link rel="canonical" href="https://ainoma.uz/chatgpt-uzbekiston.html">
   <meta property="og:type" content="article">
   <meta property="og:site_name" content="AiNoma">
@@ -415,6 +415,6 @@ Kod:
     </div>
   </footer>
 
-  <script src="app.js?v=1794398883"></script>
+  <script src="app.js?v=1794411774"></script>
 </body>
 </html>

diff --git a/prompt-ustaxonasi.html b/prompt-ustaxonasi.html
@@ -6,7 +6,7 @@
   <meta name="description" content="O‘zbek tilidagi professional ChatGPT va AI promptlar to‘plami hamda interaktiv prompt generatori. Marketing, savdo, dasturlash va tahlil uchun tayyor qoliplar.">
   <meta name="keywords" content="chatgpt promptlar, tayyor promptlar, prompt yozish, prompt injiniring, ai prompt generator, suniy intellekt prompt, ainoma">
   <title>Tayyor ChatGPT Promptlar va Prompt Konstruktori (2026) — AiNoma Prompt Ustaxonasi</title>
-  <link rel="stylesheet" href="style.css?v=1794398883">
+  <link rel="stylesheet" href="style.css?v=1794411774">
   <link rel="canonical" href="https://ainoma.uz/prompt-ustaxonasi.html">
   <link rel="icon" type="image/svg+xml" href="favicon.svg">
   <link rel="alternate icon" href="favicon.ico">
@@ -432,7 +432,7 @@ Har bir savol uchun:
     </button>
   </nav>
 
-  <script src="app.js?v=1794398883"></script>
+  <script src="app.js?v=1794411774"></script>
   <script>
     const PRESETS = {
       b2b_sales: {

diff --git a/qollanmalar.html b/qollanmalar.html
@@ -6,7 +6,7 @@
   <meta name="description" content="Sun’iy intellektni noldan o‘rganish, ChatGPT va Claude bilan ishlash, biznes jarayonlarini avtomatlashtirish hamda professional master promptlar bo‘yicha to‘liq amaliy qo‘llanmalar kutubxonasi.">
   <meta name="keywords" content="sun'iy intellekt qollanma, suniy intellekt nima, chatgpt ishlatish, prompt yozish, ai bilan pul ishlash, suniy intellekt darslari, ainoma">
   <title>Sun’iy Intellekt Qo‘llanmalari (2026): Noldan O‘rganish, Promptlar va Amaliyot — AiNoma</title>
-  <link rel="stylesheet" href="style.css?v=1794398883">
+  <link rel="stylesheet" href="style.css?v=1794411774">
   <link rel="canonical" href="https://ainoma.uz/qollanmalar.html">
   <meta property="og:type" content="website">
   <meta property="og:site_name" content="AiNoma">
@@ -405,6 +405,6 @@
     </button>
   </nav>
 
-  <script src="app.js?v=1794398883"></script>
+  <script src="app.js?v=1794411774"></script>
 </body>
 </html>

diff --git a/yangiliklar.html b/yangiliklar.html
@@ -7,7 +7,7 @@
 <meta name="description" content="O‘zbekiston va jahon sun’iy intellekt (AI) olamidagi eng so‘nggi yangiliklar, OpenAI, Google, Anthropic rasmiy relizlari va eksklyuziv tahliliy sharhlar.">
   <meta name="keywords" content="sun'iy intellekt yangiliklari, suniy intellekt, ai yangiliklar 2026, openai yangiliklari, chatgpt, claude, google gemini, ainoma">
 <title>Sun’iy Intellekt Yangiliklari (2026): Eng So‘nggi AI Voqealari va Tahlillar — AiNoma</title>
-<link href="style.css?v=1794398883" rel="stylesheet"/>
+<link href="style.css?v=1794411774" rel="stylesheet"/>
 <link href="https://ainoma.uz/yangiliklar.html" rel="canonical"/>
 <meta content="website" property="og:type"/>
 <meta content="AiNoma" property="og:site_name"/>
@@ -1815,6 +1815,6 @@
     </button>
   </nav>
 
-  <script src="app.js?v=1794398883"></script>
+  <script src="app.js?v=1794411774"></script>
 </body>
 </html>

diff --git a/maqola.html b/maqola.html
@@ -14,7 +14,7 @@
   <meta name="viewport" content="width=device-width,initial-scale=1">
   <meta name="description" content="OpenAI yangi Agents API va Data Agent vositalarini chiqardi. Bu O‘zbekiston biznesi va mutaxassislari uchun nimani anglatadi?">
   <title>OpenAI Agents API va ChatGPT Data Agent tahlili — AiNoma</title>
-  <link rel="stylesheet" href="style.css?v=1794398883">
+  <link rel="stylesheet" href="style.css?v=1794411774">
   <link rel="canonical" href="https://ainoma.uz/maqola.html">
   <meta property="og:type" content="website">
   <meta property="og:site_name" content="AiNoma">
@@ -167,8 +167,8 @@
     </div>
   </footer>
 
-  <script src="articles-data.js?v=1794398883"></script>
-  <script src="app.js?v=1794398883"></script>
+  <script src="articles-data.js?v=1794411774"></script>
+  <script src="app.js?v=1794411774"></script>
 
   <script>
   (function() {

diff --git a/qollanma-xavfsizlik.html b/qollanma-xavfsizlik.html
@@ -5,7 +5,7 @@
   <meta name="viewport" content="width=device-width,initial-scale=1">
   <meta name="description" content="Kompaniyada sun’iy intellekt xavfsizligi va tijorat sirlarini himoya qilish bo‘yicha 5 qadamli amaliy qo‘llanma. Zero Data Retention, Data Masking va korporativ siyosat.">
   <title>Kompaniyada Sun’iy Intellekt Xavfsizligi va Maxfiylik: 5 Qadamli Qo‘llanma | AiNoma</title>
-  <link rel="stylesheet" href="style.css?v=1794398883">
+  <link rel="stylesheet" href="style.css?v=1794411774">
   <link rel="canonical" href="https://ainoma.uz/qollanma-xavfsizlik.html">
   <meta property="og:type" content="article">
   <meta property="og:site_name" content="AiNoma">
@@ -207,6 +207,6 @@
     </button>
   </nav>
 
-  <script src="app.js?v=1794398883"></script>
+  <script src="app.js?v=1794411774"></script>
 </body>
 </html>

diff --git a/qollanma-moliya.html b/qollanma-moliya.html
@@ -5,7 +5,7 @@
   <meta name="viewport" content="width=device-width,initial-scale=1">
   <meta name="description" content="Kompaniya moliyasi, 1C hisobotlari va kassa nazoratida sun’iy intellektdan foydalanish bo‘yicha amaliy qo‘llanma. Cash flow tahlili, xarajatlar auditi va marjani oshirish.">
   <title>Moliyaviy Tahlil va Buxgalteriyada Sun’iy Intellekt: Amaliy Qo‘llanma | AiNoma</title>
-  <link rel="stylesheet" href="style.css?v=1794398883">
+  <link rel="stylesheet" href="style.css?v=1794411774">
   <link rel="canonical" href="https://ainoma.uz/qollanma-moliya.html">
   <meta property="og:type" content="article">
   <meta property="og:site_name" content="AiNoma">
@@ -190,6 +190,6 @@
     </button>
   </nav>
 
-  <script src="app.js?v=1794398883"></script>
+  <script src="app.js?v=1794411774"></script>
 </body>
 </html>
